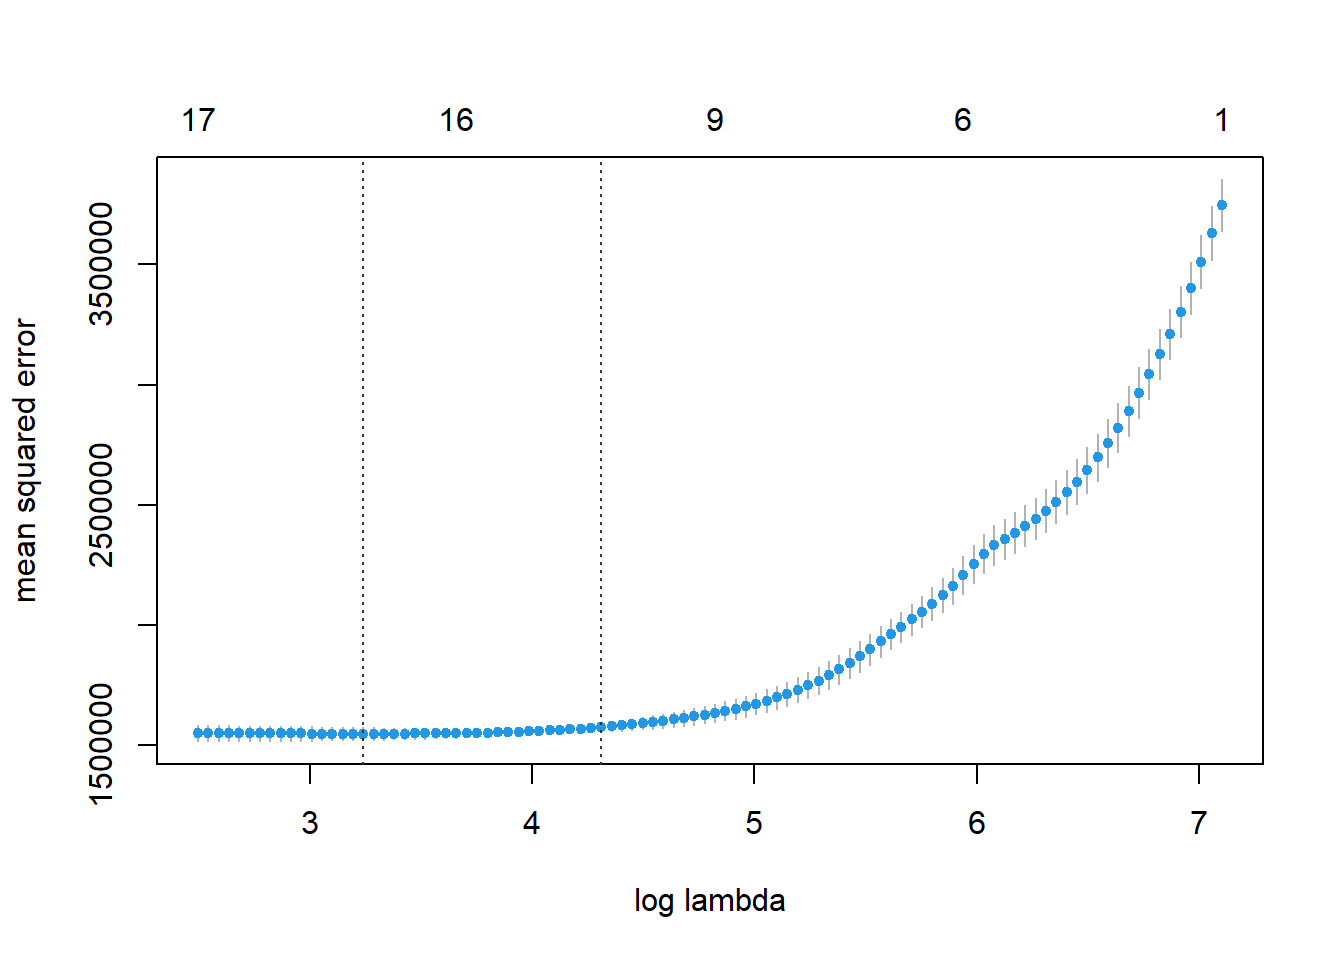
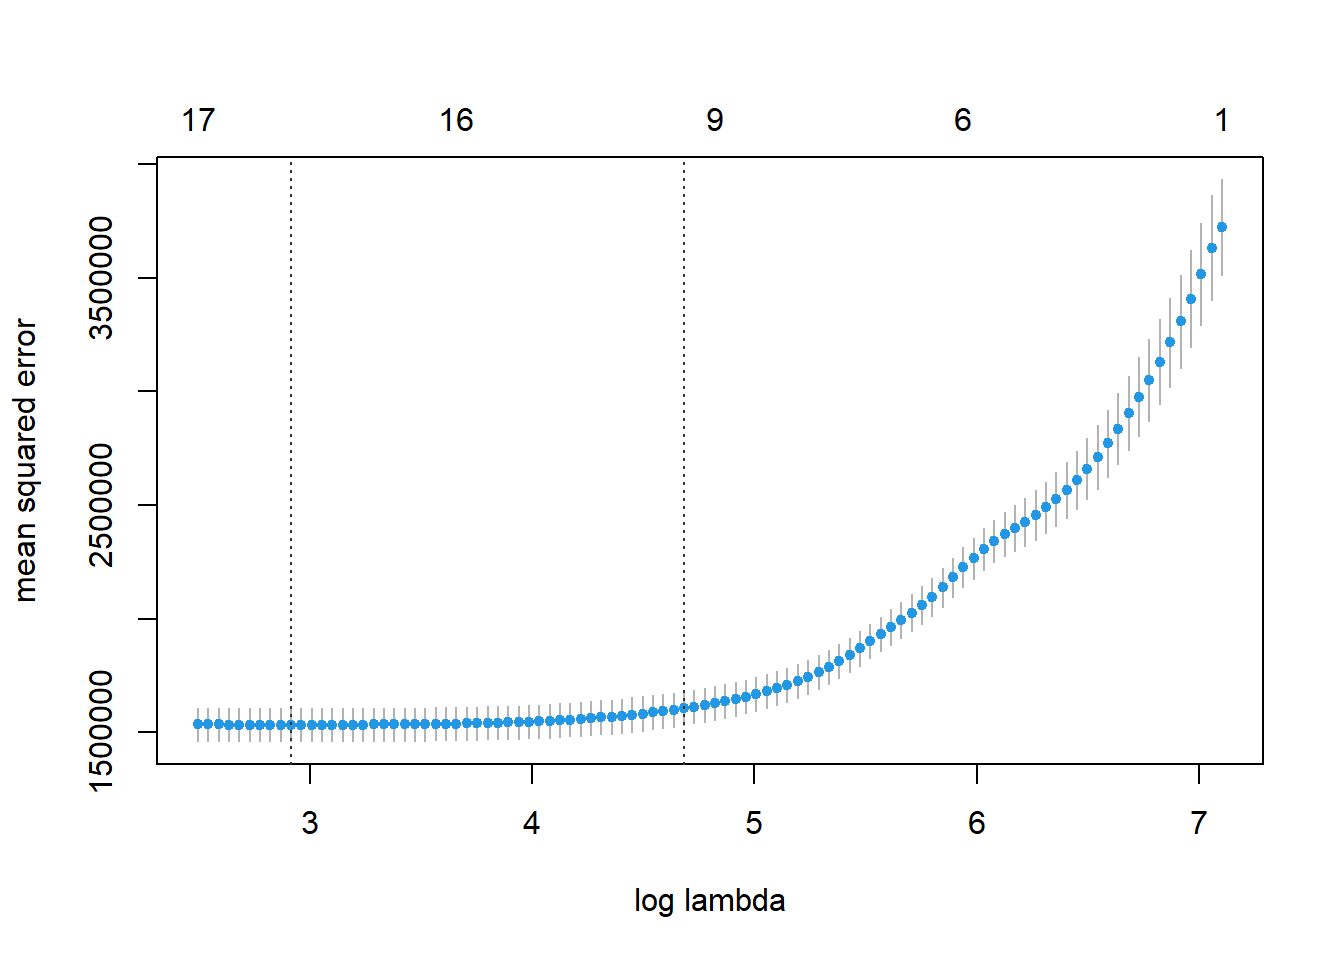
Ran through problem set 2

diff --git a/docs/posts/Problem Set 2/index.html b/docs/posts/Problem Set 2/index.html
@@ -497,28 +497,28 @@ Attaching package: 'Matrix'</code></pre>
 <span id="cb33-2"><a href="#cb33-2" aria-hidden="true" tabindex="-1"></a>betamin</span></code><button title="Copy to Clipboard" class="code-copy-button"><i class="bi"></i></button></pre></div>
 <div class="cell-output cell-output-stdout">
 <pre><code>21 x 1 sparse Matrix of class "dgCMatrix"
-                     seg84
-intercept      7129.477106
-temperature     973.652665
-humidity      -2908.777178
-windspeed     -1819.172215
-season_Winter  -718.644052
-season_Spring   -70.054566
-season_Summer     8.026927
-season_Fall     297.688661
-holiday_0       404.154109
+                     seg91
+intercept      7188.241247
+temperature     977.913810
+humidity      -2989.755533
+windspeed     -1863.339998
+season_Winter  -727.909032
+season_Spring   -95.984494
+season_Summer    12.909978
+season_Fall     301.456207
+holiday_0       437.471632
 holiday_1         .       
-weekday_0      -237.481119
-weekday_1       -78.567823
-weekday_2         .       
+weekday_0      -260.794743
+weekday_1       -96.389630
+weekday_2        -5.296943
 weekday_3         .       
 weekday_4         .       
 weekday_5         .       
-weekday_6        46.330329
-weather_1       254.947013
+weekday_6        58.890335
+weather_1       256.135832
 weather_2         .       
-weather_3     -1627.856643
-temperature2   -516.515981</code></pre>
+weather_3     -1658.716768
+temperature2   -529.867870</code></pre>
 </div>
 </div>
 <div class="cell">

diff --git a/docs/posts.html b/docs/posts.html
@@ -208,7 +208,7 @@ Before getting started, we’ll need to make sure the necessary packages install
 <a href="./posts/Problem Set 2/index.html"> </a>
 </div>
 </div>
-<div class="quarto-post image-right" data-index="1" data-listing-date-sort="1694754000000" data-listing-file-modified-sort="1696705915171" data-listing-date-modified-sort="NaN" data-listing-reading-time-sort="7">
+<div class="quarto-post image-right" data-index="1" data-listing-date-sort="1694754000000" data-listing-file-modified-sort="1696707950269" data-listing-date-modified-sort="NaN" data-listing-reading-time-sort="7">
 <div class="thumbnail">
 <p><a href="./posts/Problem Set 1/index.html"> <p class="card-img-top"><img src="posts\Problem Set 1\index_files\figure-html\unnamed-chunk-4-1.png"  class="thumbnail-image card-img"/></p> </a></p>
 </div>
